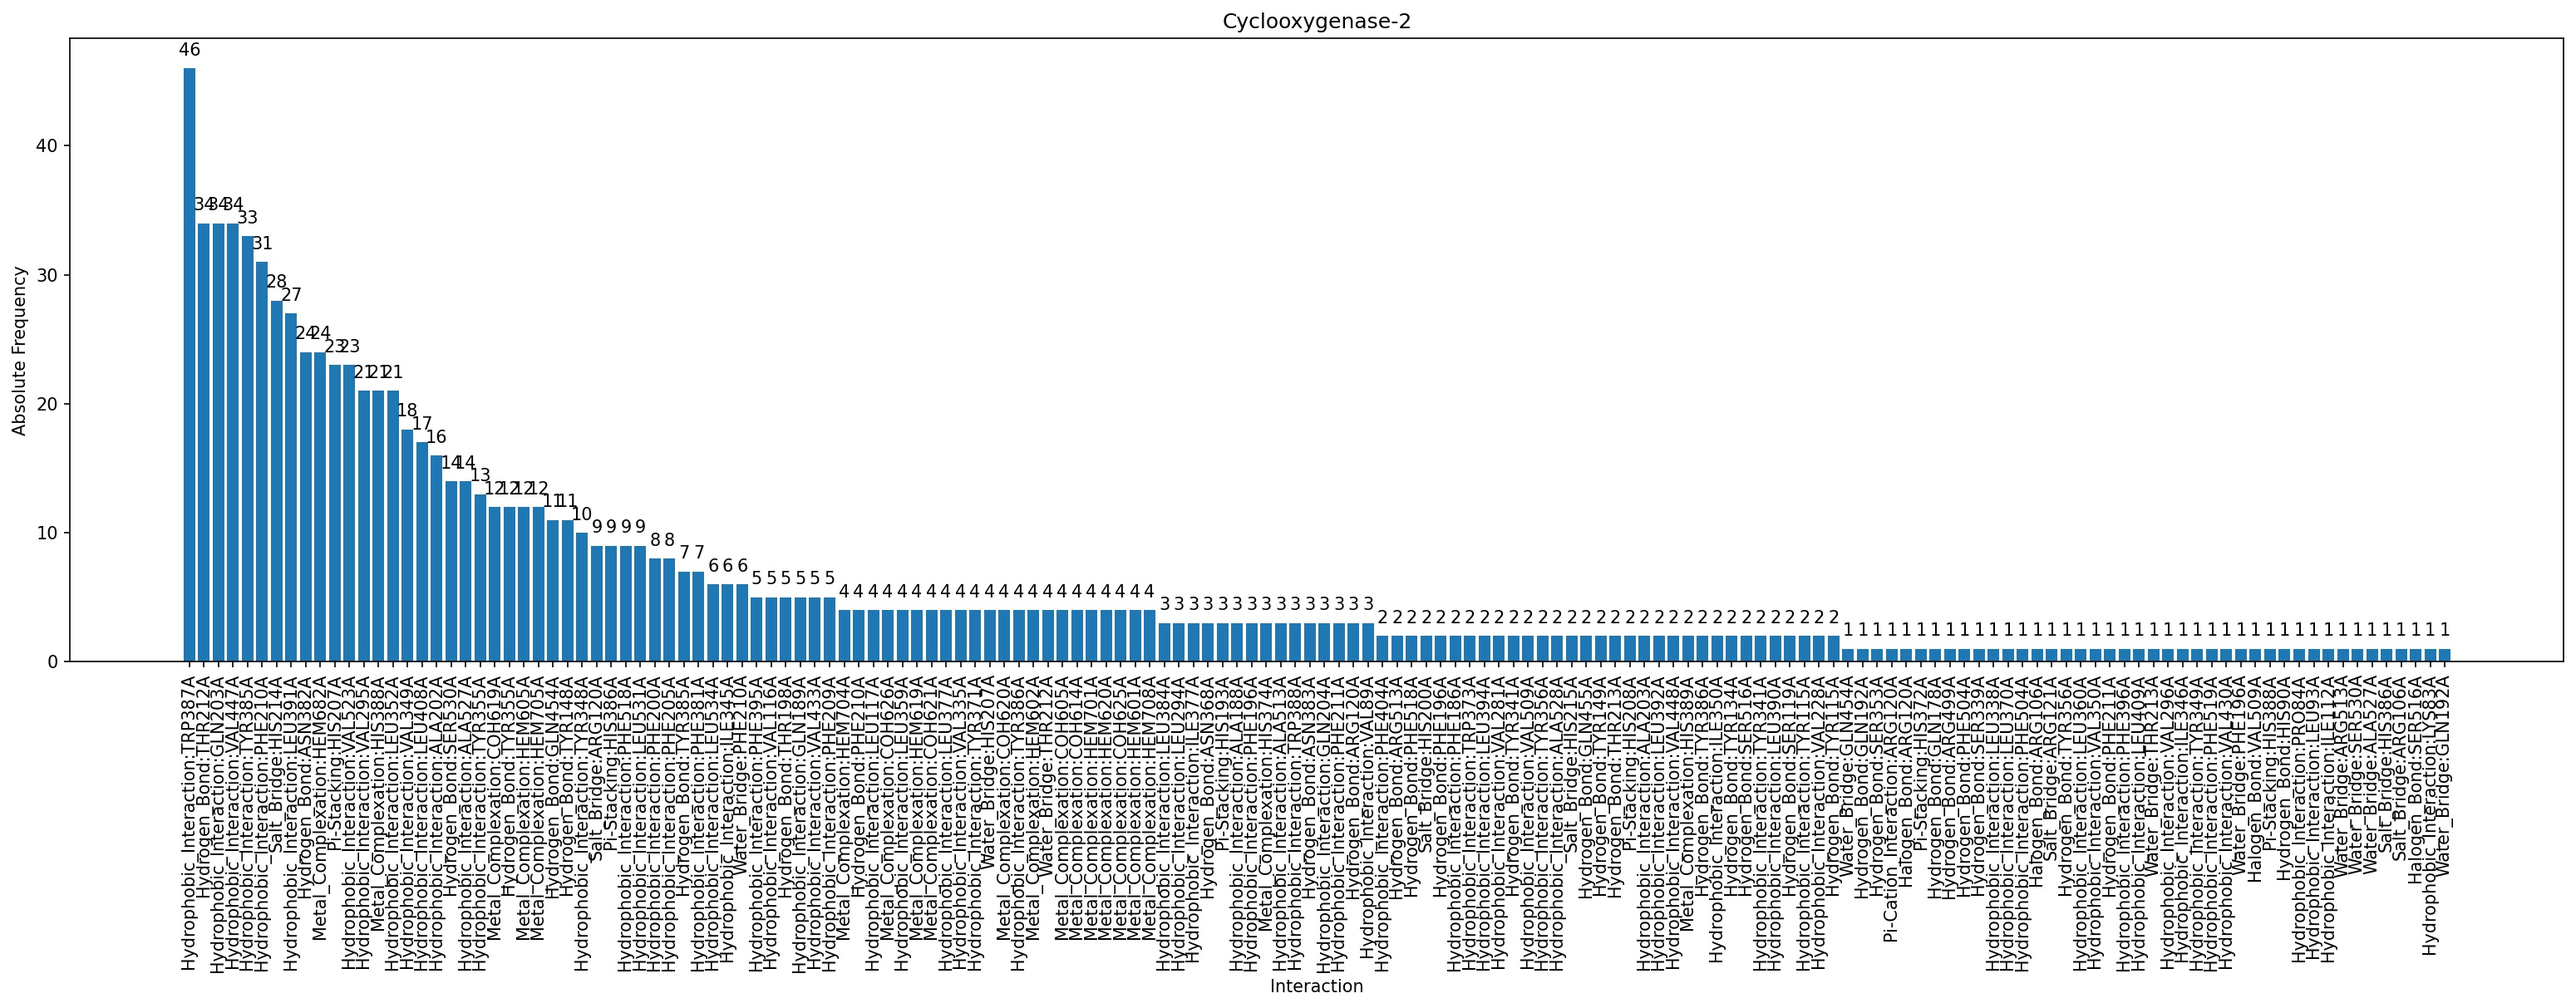
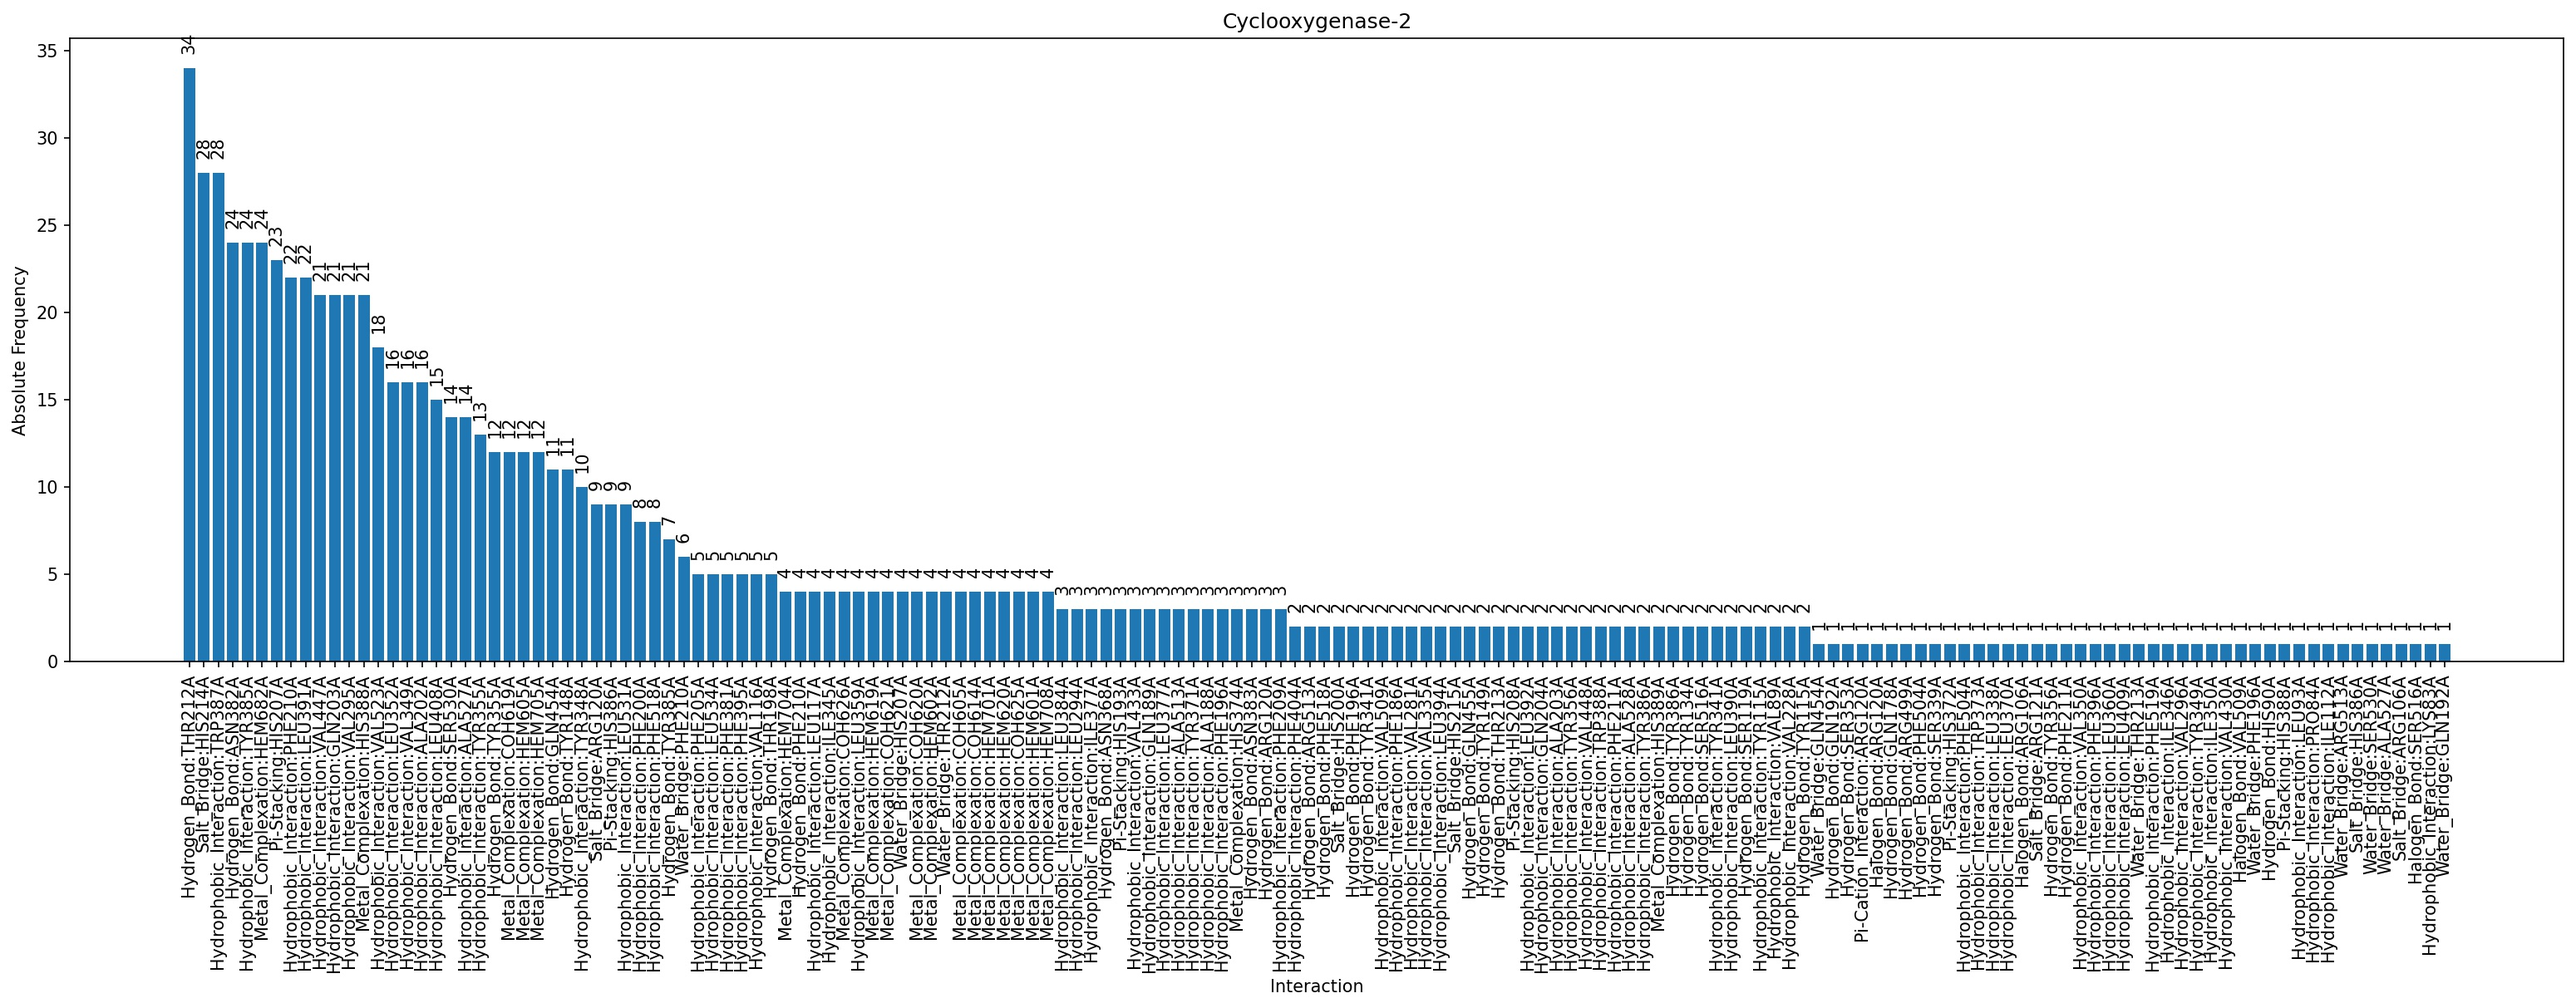
bump COX2 results to newer version

Changed region(s): [[0.062, 0.1525, 0.9603, 0.9761]]

diff --git a/data/cyclooxygenase-2/plip_analysis.py b/data/cyclooxygenase-2/plip_analysis.py
@@ -22,26 +22,41 @@ if __name__ == '__main__':
     PDB_ENTRIES = list(df["PDB_ENTRY"])
     print("First 5 PDB entries:")
     print(PDB_ENTRIES[:5])
-    result = pa(PDB_ENTRIES, path = "structures")
+    result = pa(PDB_ENTRIES, path = "structures", normalize = False)
     r = result.save("results/cyclooxygenase-2")
     print("Result saved in:")
     print(r)
     r = result.to_csv("results/cyclooxygenase-2_freq.csv")
     result.plot("Cyclooxygenase-2", filename = "results/cyclooxygenase-2.jpg")
     result.plot("Cyclooxygenase-2", filename = "results/cyclooxygenase-2.png")
+    # normalized analysis
+    result = pa(PDB_ENTRIES, path = "structures", normalize = True)
+    r = result.save("results/cyclooxygenase-2_normalized")
+    print("Result saved in:")
+    print(r)
+    r = result.to_csv("results/cyclooxygenase-2_normalized_freq.csv")
+    result.plot("Cyclooxygenase-2", filename = "results/cyclooxygenase-2_normalized.jpg")
+    result.plot("Cyclooxygenase-2", filename = "results/cyclooxygenase-2_normalized.png")
 
     # analysis human
     df = pd.read_csv("data_human.csv")
     PDB_ENTRIES = list(df["PDB_ENTRY"])
     print("First 5 PDB entries:")
     print(PDB_ENTRIES[:5])
-    result = pa(PDB_ENTRIES, path = "structures")
+    result = pa(PDB_ENTRIES, path = "structures", normalize = False)
     r = result.save("results_human/cyclooxygenase-2_human")
     print("Result saved in:")
     print(r)
     r = result.to_csv("results_human/cyclooxygenase-2_human_freq.csv")
     result.plot("Cyclooxygenase-2 (Homo sapiens)", filename = "results_human/cyclooxygenase-2_human.jpg")
     result.plot("Cyclooxygenase-2 (Homo sapiens)", filename = "results_human/cyclooxygenase-2_human.png")
+    result = pa(PDB_ENTRIES, path = "structures", normalize = True)
+    r = result.save("results_human/cyclooxygenase-2_human_normalized")
+    print("Result saved in:")
+    print(r)
+    r = result.to_csv("results_human/cyclooxygenase-2_human_normalized_freq.csv")
+    result.plot("Cyclooxygenase-2 (Homo sapiens)", filename = "results_human/cyclooxygenase-2_human_normalized.jpg")
+    result.plot("Cyclooxygenase-2 (Homo sapiens)", filename = "results_human/cyclooxygenase-2_human_normalized.png")
 
     # clean up
     os.remove("PLIPAnalyzer.py")
